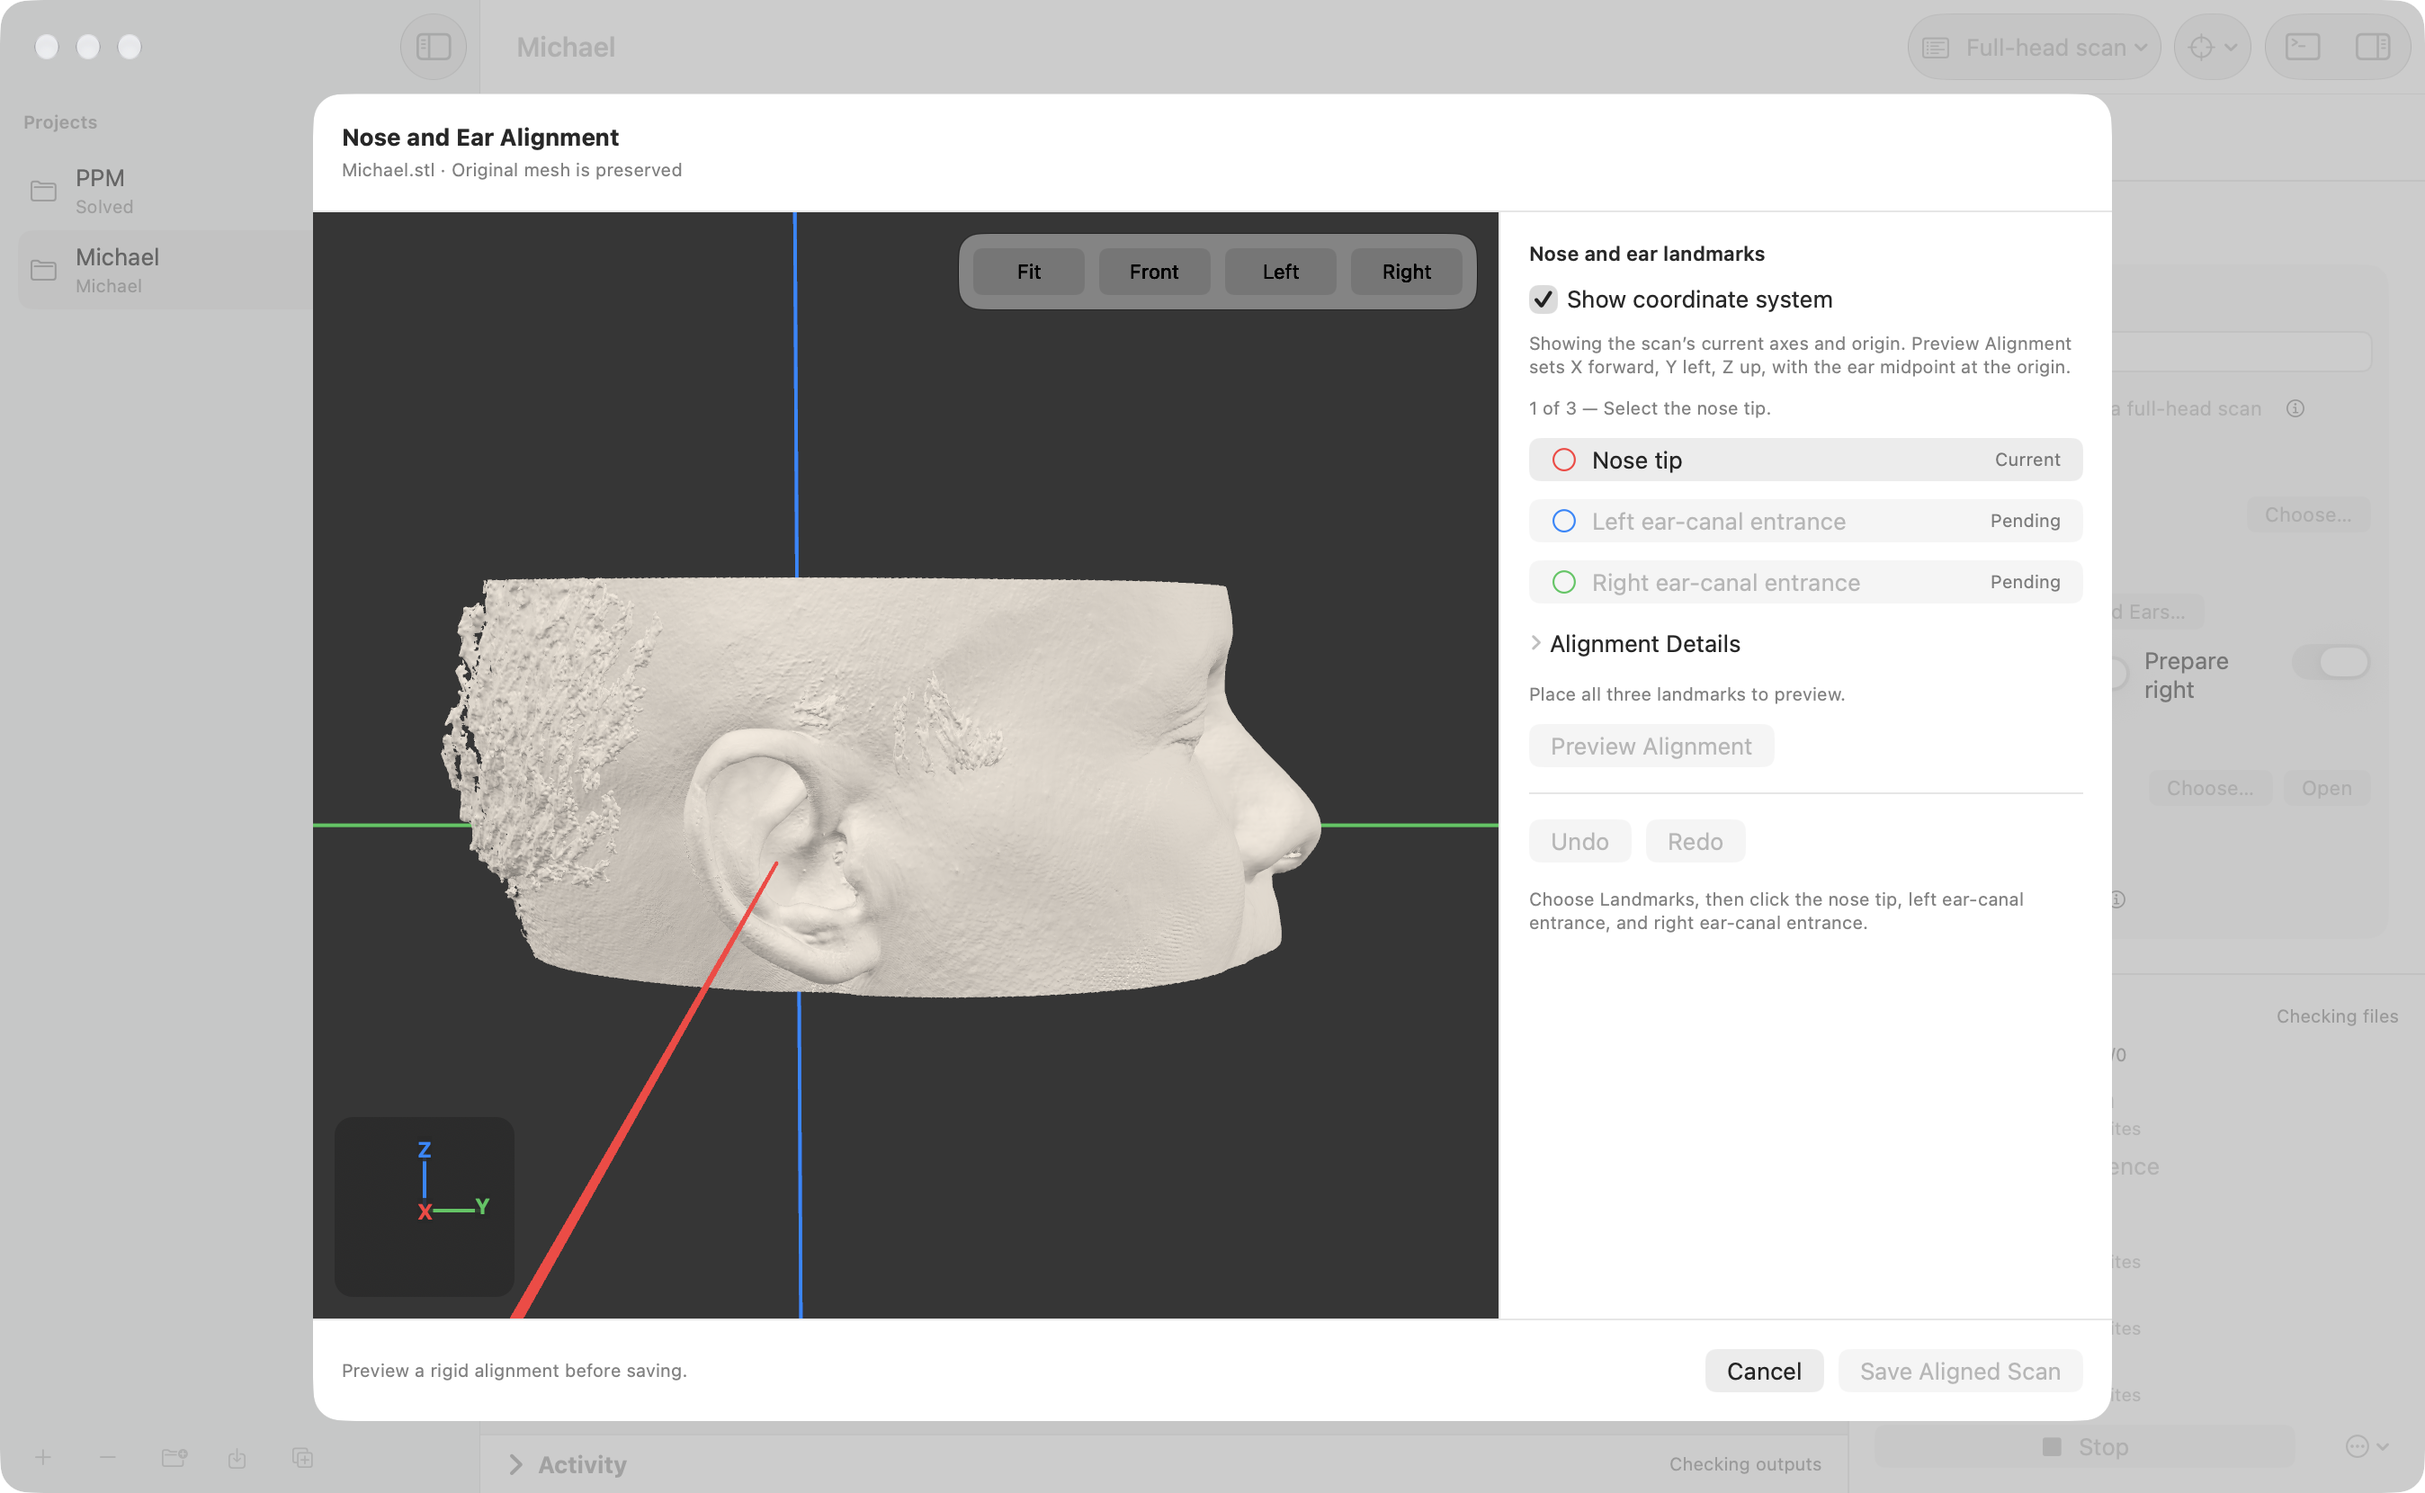
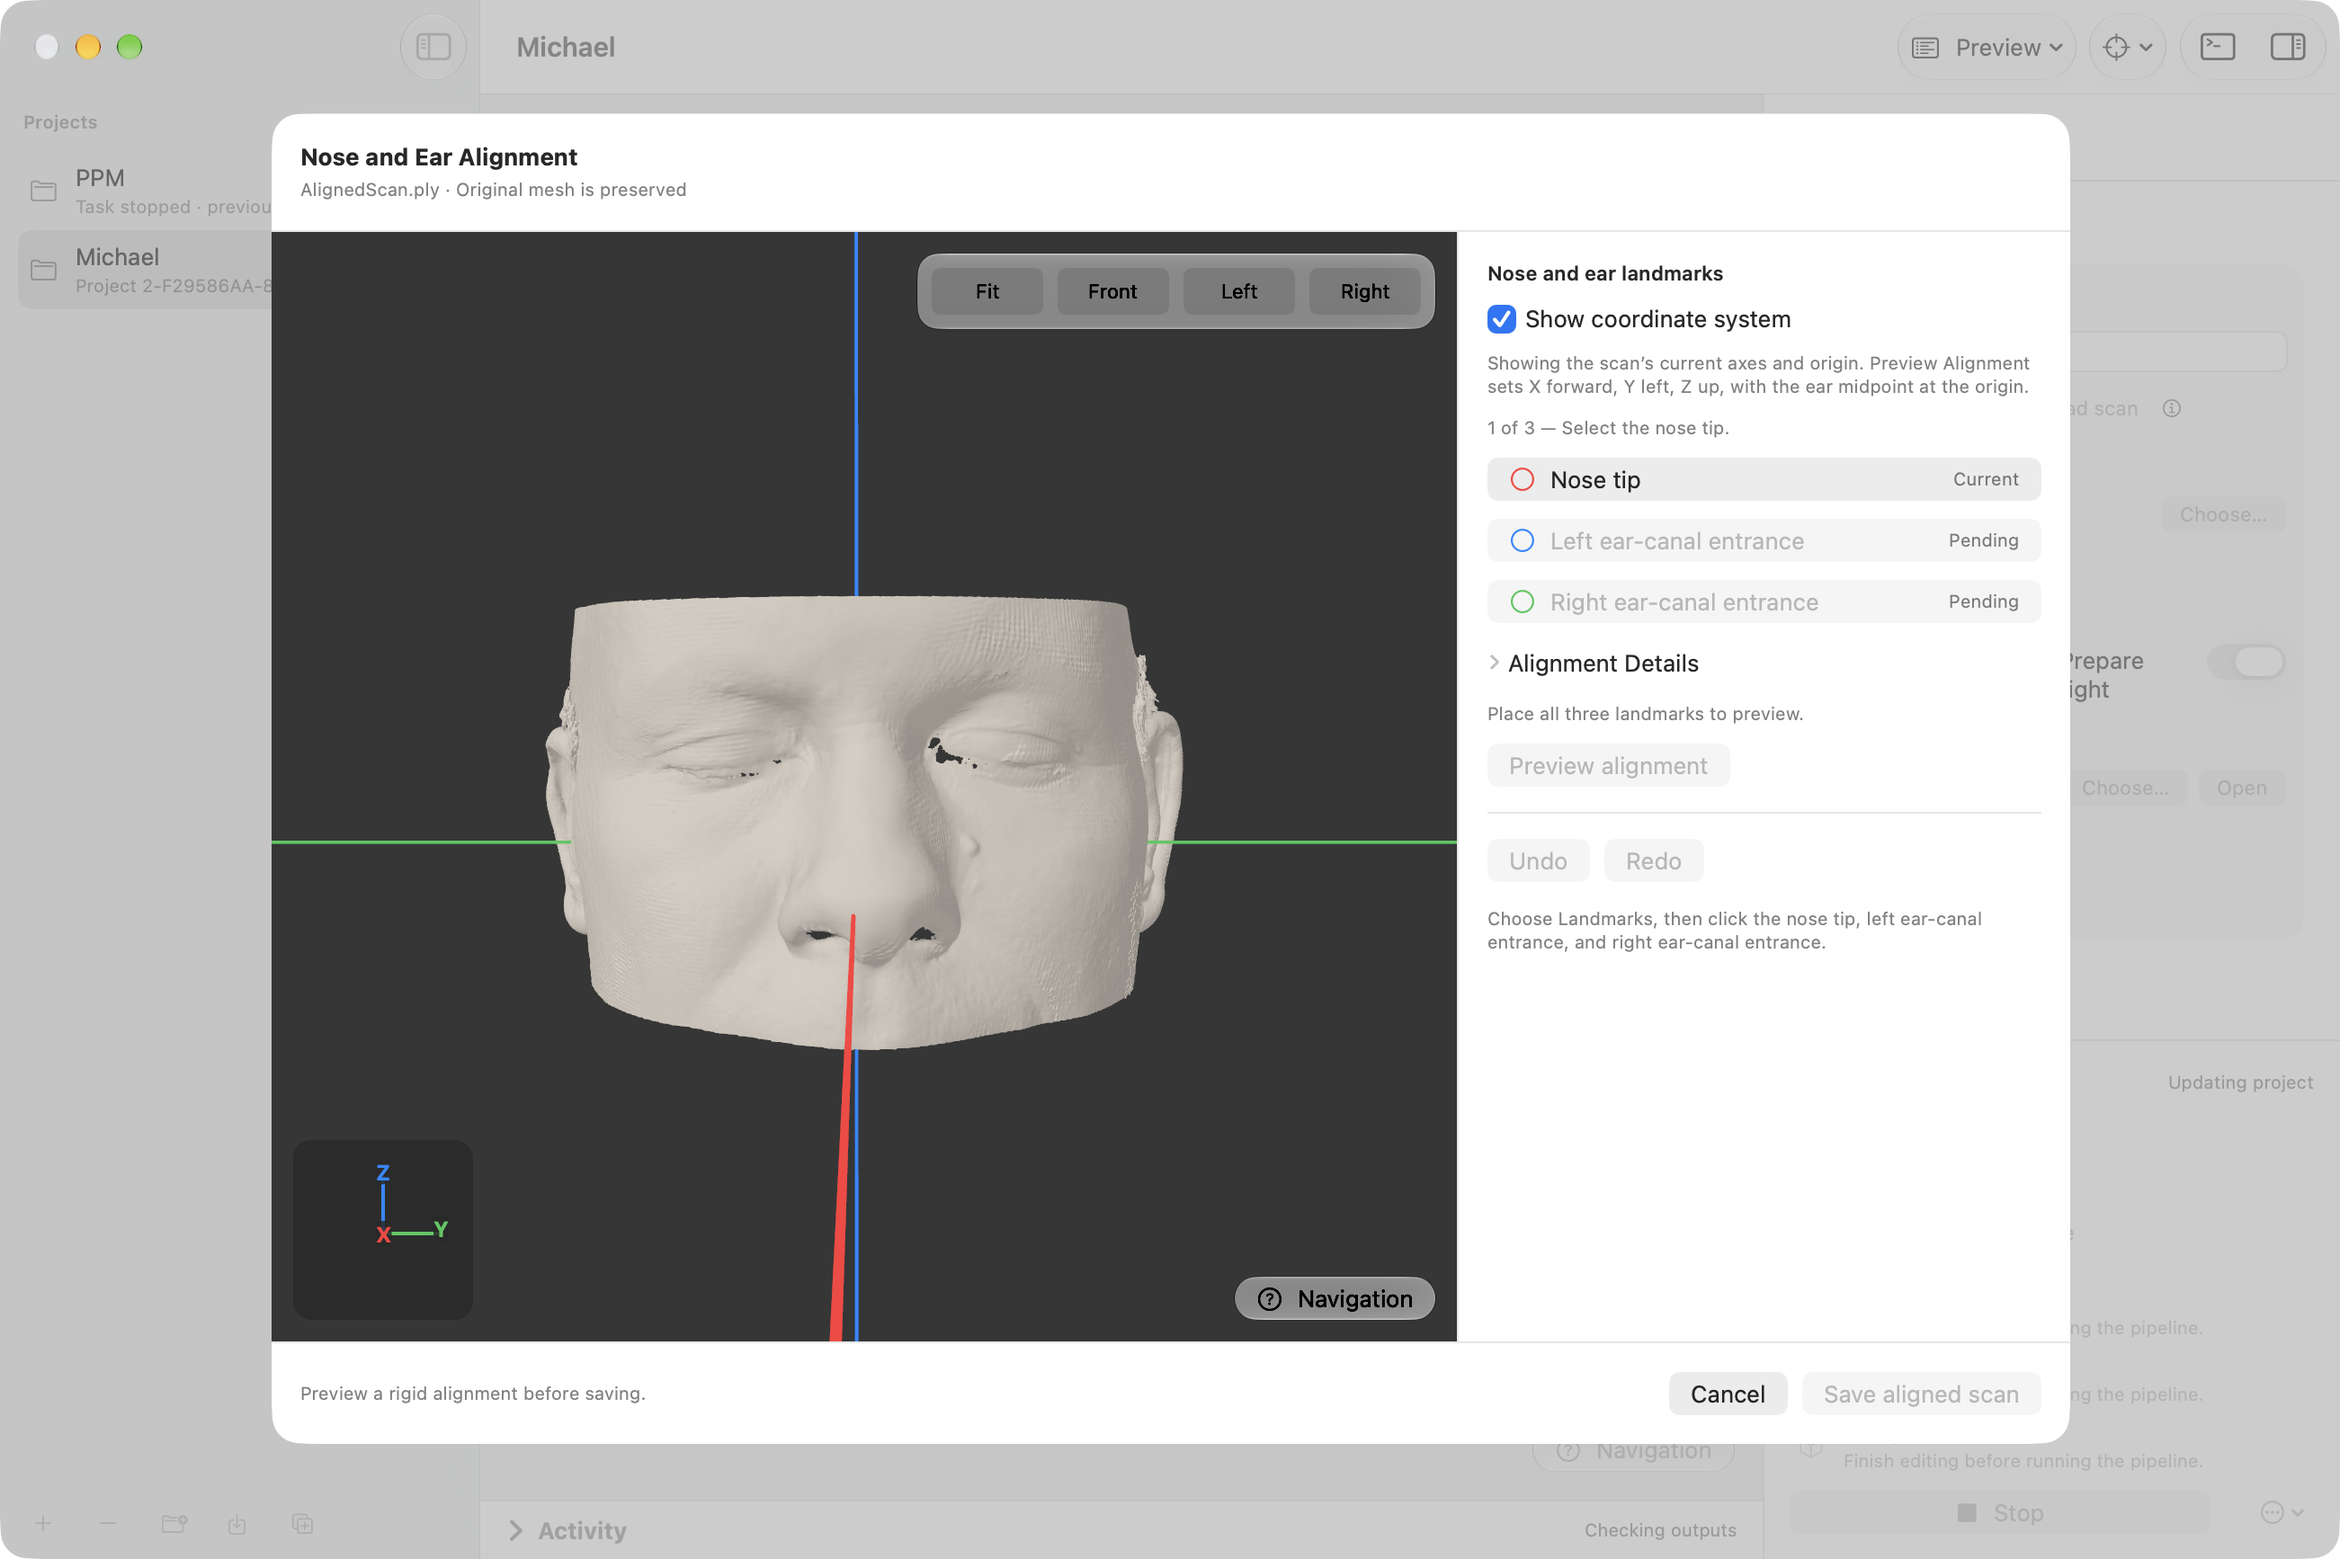
Refresh scan alignment screenshot

diff --git a/website/docs/scan-preparation.html b/website/docs/scan-preparation.html
@@ -16,7 +16,7 @@
       <figure><a href="../assets/screenshots/scan-preparation-input.png" aria-label="Open full-size screenshot: Michael: full-head scan input, preparation sides, and project settings."><img src="../assets/screenshots/scan-preparation-input.png" alt="Michael: full-head scan input, preparation sides, and project settings." width="2602" height="1734" loading="lazy" decoding="async"></a><figcaption>Michael: full-head scan input, preparation sides, and project settings. <a href="../assets/screenshots/scan-preparation-input.png">View full size ↗</a></figcaption></figure>
 <h2 id="1-align-the-scan">1. Align the scan</h2><p>Before preparing ears, use <strong>Align scan…</strong> to select these points in order: nose tip, left ear-canal entrance, right ear-canal entrance. “Left” and “right” refer to the person in the scan. Preview the alignment and save a separate aligned copy.</p>
       <p>The selected landmarks become horizontal. The aligned frame uses X toward the nose, Y toward the person’s left, and Z upward, with the ear midpoint at the origin. This reference is not the Frankfort plane. If your scan is already aligned outside the app, you can skip this step.</p>
-      <figure><a href="../assets/screenshots/scan-alignment.png" aria-label="Open full-size screenshot: Place the nose tip and both ear-canal entrances in the alignment editor. Rotate the scan to reach each side."><img src="../assets/screenshots/scan-alignment.png" alt="Place the nose tip and both ear-canal entrances in the alignment editor. Rotate the scan to reach each side." width="2696" height="1660" loading="lazy" decoding="async"></a><figcaption>Place the nose tip and both ear-canal entrances in the alignment editor. Rotate the scan to reach each side. <a href="../assets/screenshots/scan-alignment.png">View full size ↗</a></figcaption></figure><figure><a href="../assets/screenshots/alignment-preview.png" aria-label="Open full-size screenshot: Preview the aligned coordinate frame before saving a separate aligned scan."><img src="../assets/screenshots/alignment-preview.png" alt="Preview the aligned coordinate frame before saving a separate aligned scan." width="2696" height="1660" loading="lazy" decoding="async"></a><figcaption>Preview the aligned coordinate frame before saving a separate aligned scan. <a href="../assets/screenshots/alignment-preview.png">View full size ↗</a></figcaption></figure>
+      <figure><a href="../assets/screenshots/scan-alignment.png" aria-label="Open full-size screenshot: Place the nose tip and both ear-canal entrances in the alignment editor. Rotate the scan to reach each side."><img src="../assets/screenshots/scan-alignment.png" alt="Place the nose tip and both ear-canal entrances in the alignment editor. Rotate the scan to reach each side." width="2602" height="1734" loading="lazy" decoding="async"></a><figcaption>Place the nose tip and both ear-canal entrances in the alignment editor. Rotate the scan to reach each side. <a href="../assets/screenshots/scan-alignment.png">View full size ↗</a></figcaption></figure><figure><a href="../assets/screenshots/alignment-preview.png" aria-label="Open full-size screenshot: Preview the aligned coordinate frame before saving a separate aligned scan."><img src="../assets/screenshots/alignment-preview.png" alt="Preview the aligned coordinate frame before saving a separate aligned scan." width="2696" height="1660" loading="lazy" decoding="async"></a><figcaption>Preview the aligned coordinate frame before saving a separate aligned scan. <a href="../assets/screenshots/alignment-preview.png">View full size ↗</a></figcaption></figure>
 <h2 id="2-prepare-and-inspect-the-ears">2. Prepare and inspect the ears</h2><ol><li>Choose the scan and set its crop rotation. Nose-and-ear alignment in the app sets this to zero. For scans aligned elsewhere, verify orientation; a Z rotation of 90 or 270 degrees may be needed.</li><li>Select left, right, or both ears, then run <strong>Scan Preparation</strong>.</li><li>Inspect each prepared mesh in Preview. The default crop polygon and margins are calibrated for edited, aligned scans; they do not automatically locate the ear. Check the crop placement for every scan.</li></ol>
       <details><summary>How preparation processes and validates the mesh</summary>      <p>Preparation crops the pinna region, cleans the mesh, performs 0.75 mm isotropic remeshing (six iterations, capped at 150,000 faces), reconstructs it with Screened Poisson (depth 7, one worker), restores the attachment boundary, and closes residual holes. A prepared ear is validated for one connected surface, consistent winding, finite coordinates, positive volume, and exactly one simple open attachment boundary.</p>
       <p>The prepared ears are exported in the crop frame: left toward +Y and right toward −Y. Original scans are preserved. The project retains the validated ear STL files and a provenance report in <code>Prepared/</code>; intermediate geometry is temporary.</p>
